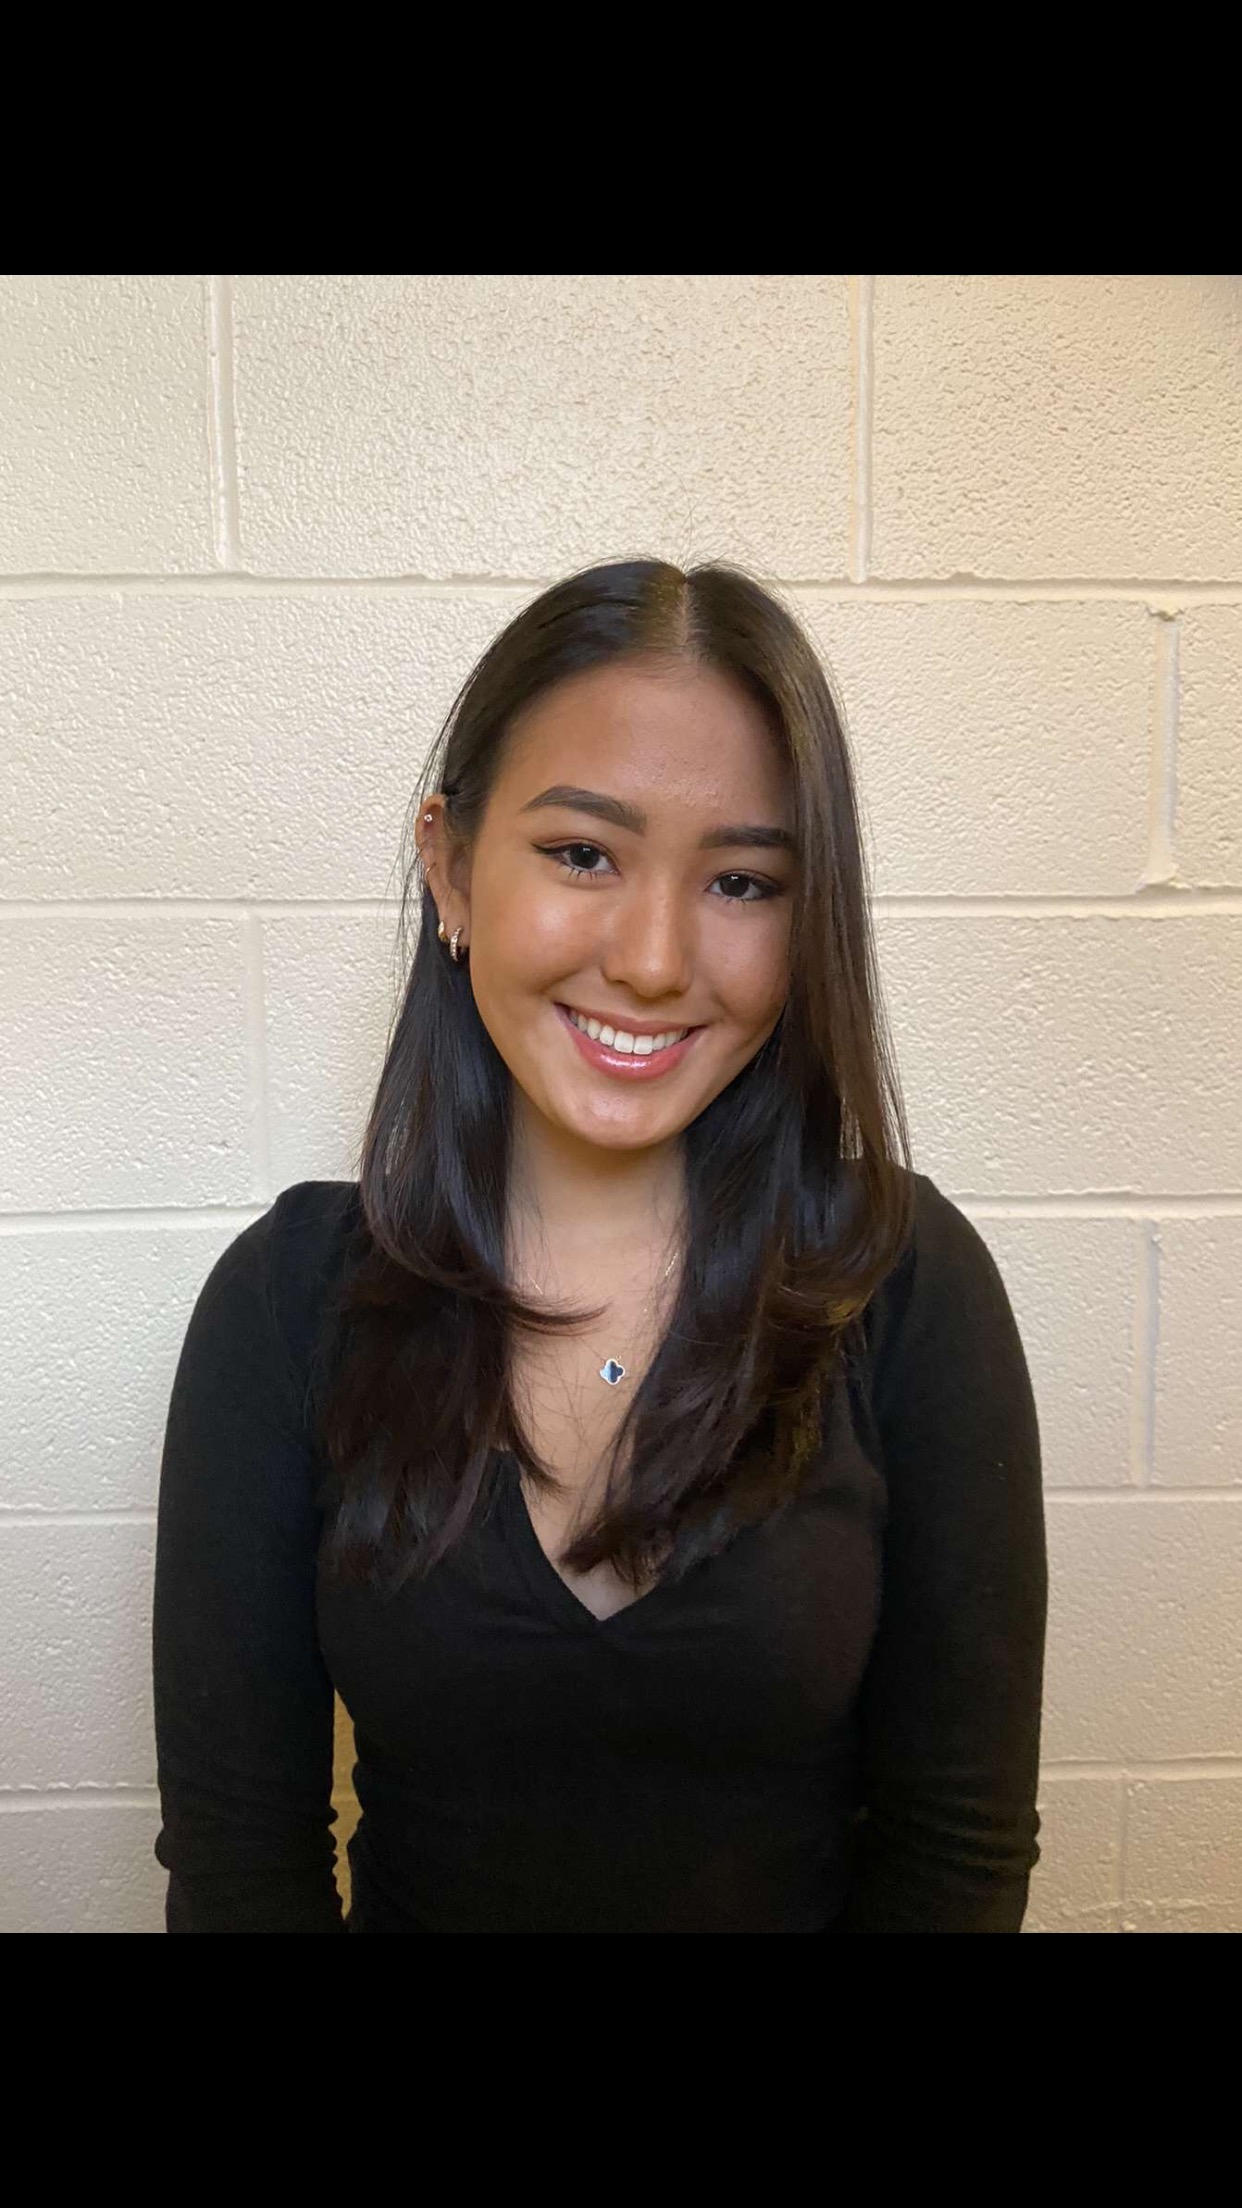
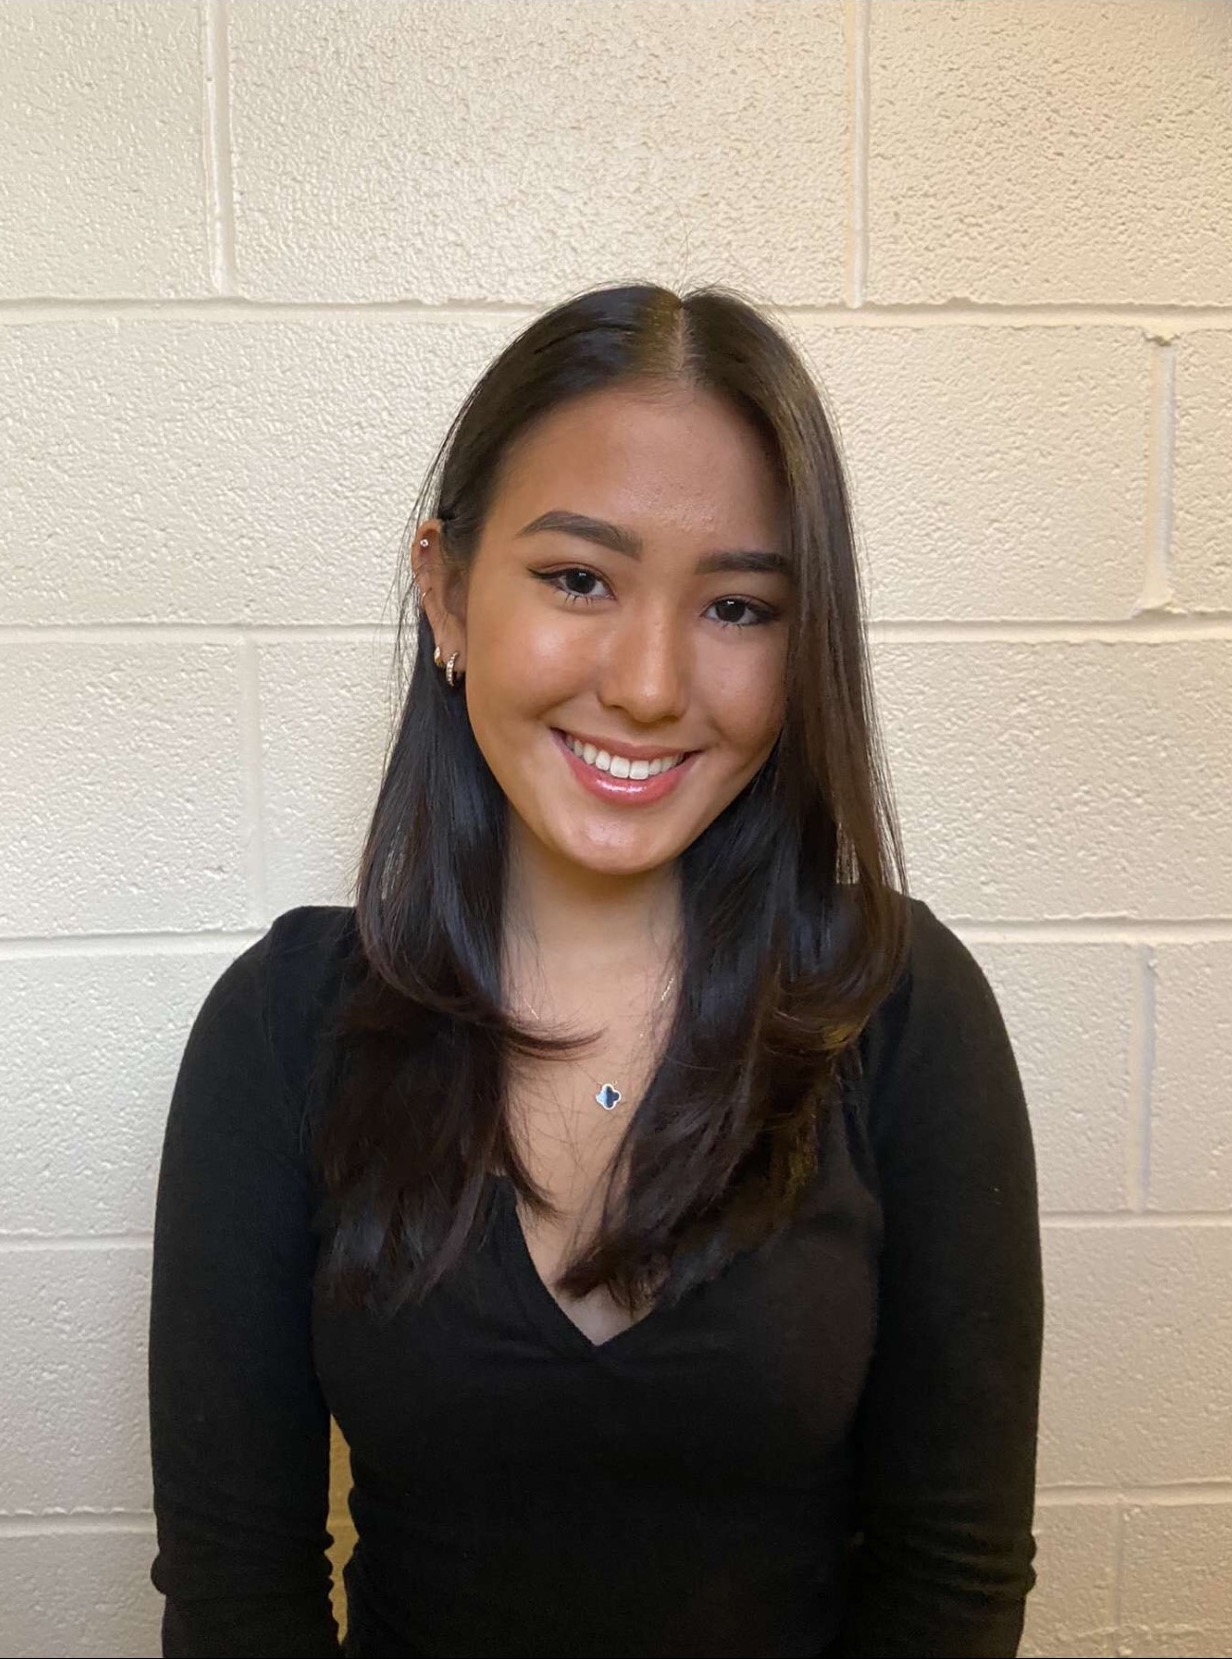
cropped the image and added a <p>tag before the comment

diff --git a/resume.html b/resume.html
@@ -5,9 +5,7 @@
             <title>Hojung Ryu Resume</title>
         </head>
         <body>
-            <--!
-            I built this myself
-        -->
+            <p><--!I built this myself--></p>
         <h1>Hojung Ryu</h1>
         <img src="headshot.jpeg"/>
             <p>I am a junior at the Philip Merrill College of Journalism.<p/>
